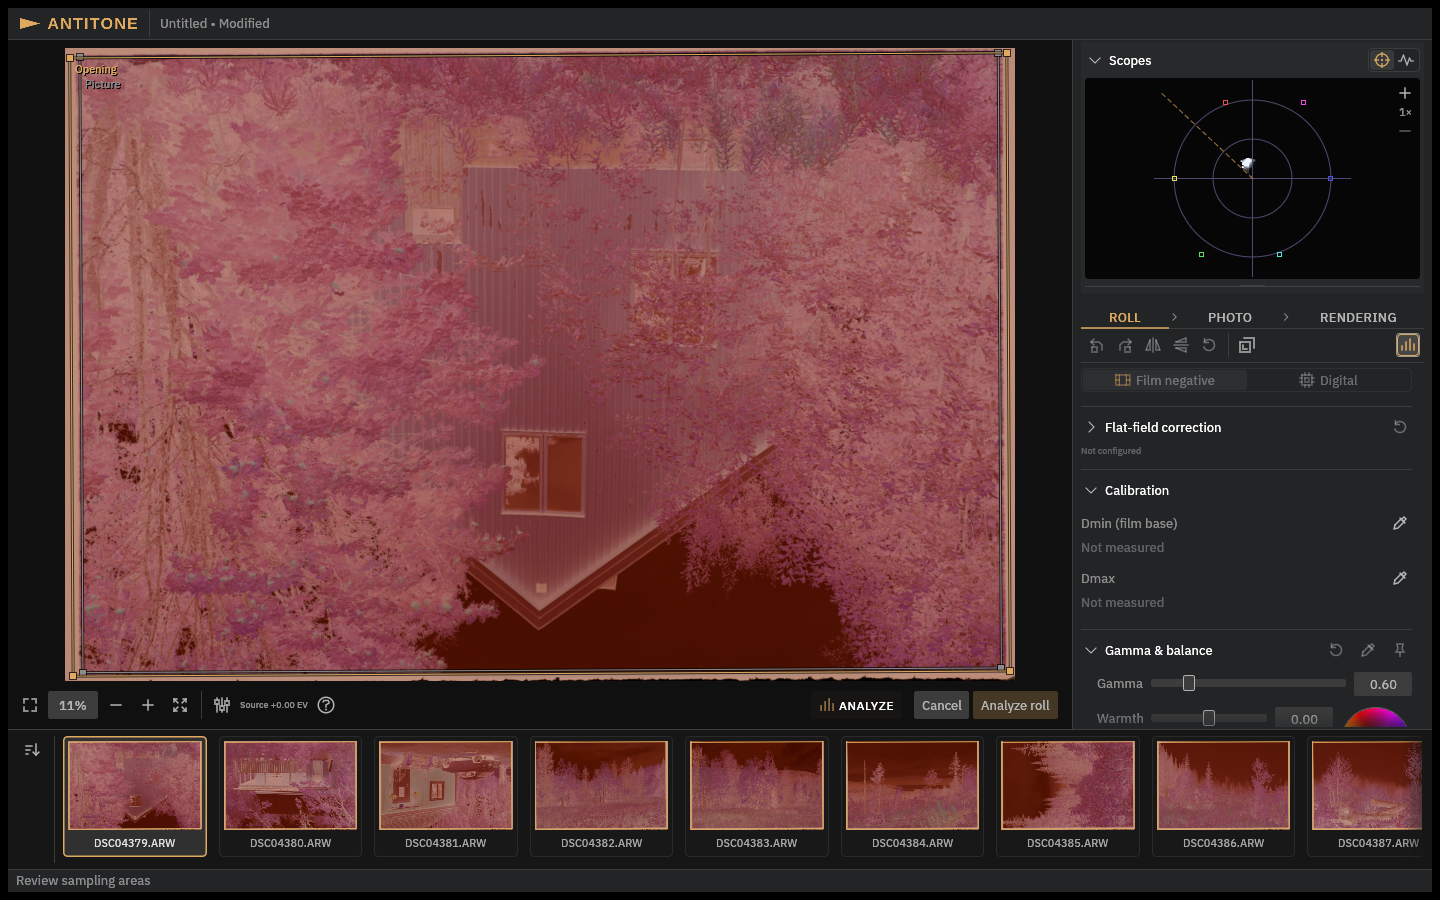
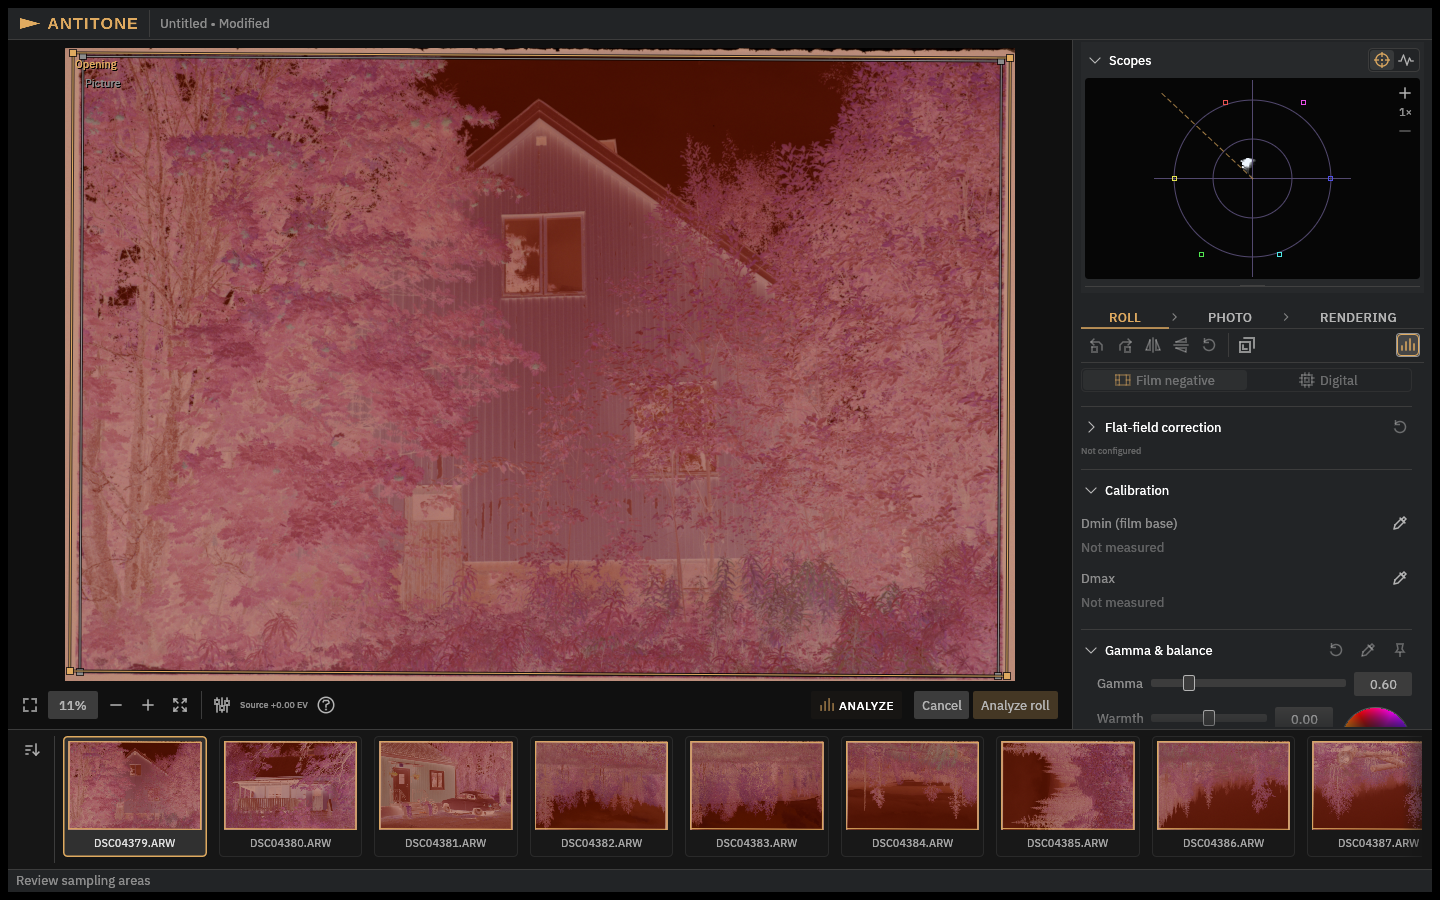
Honor photo orientation in Analyze review (#320)

Changed region(s): [[0.0312, 0.0311, 0.7188, 0.7778], [0.0312, 0.8089, 1.0, 0.9333], [0.3438, 0.3733, 0.375, 0.4356]]

diff --git a/src/editor/kittest_tests/analyze.rs b/src/editor/kittest_tests/analyze.rs
@@ -63,10 +63,11 @@ fn show_confirmation(harness: &mut Harness<'_, Editor>) {
             signature.composition,
             Composition::new(
                 editor.document.visit.canvas.ready.as_ref().unwrap().area,
-                Default::default(),
-                Default::default()
+                editor.document.project.orientation,
+                editor.photo_orientation(),
             )
-            .unwrap()
+            .unwrap(),
+            "sampling review uses the photo's orientation but not its crop"
         );
         let scopes::ScopeInput { view, .. } = editor.scope_request().unwrap();
         assert!(view.capture.is_inspection());
@@ -136,11 +137,8 @@ fn draw_picture(harness: &mut Harness<'_, Editor>, area: Rect) {
     harness.get_by_label("Fit").click();
     harness.step();
     let geometry = harness.read(|editor| editor.active_canvas().last_layout.unwrap().0);
-    let start = geometry.screen_point(egui::pos2(area.x as f32, area.y as f32));
-    let end = geometry.screen_point(egui::pos2(
-        (area.x + area.width) as f32,
-        (area.y + area.height) as f32,
-    ));
+    let target = geometry.screen_region(area);
+    let (start, end) = (target.min, target.max);
     let region = harness.read(|editor| editor.test_pick_region());
     if let Some(region) = region {
         let bounds = geometry.screen_coverage(region);
@@ -339,13 +337,14 @@ fn exercise_analyze(harness: &mut Harness<'_, Editor>, picture: Rect, case: &str
         assert_eq!(after.order, before.order);
         assert!(after.analysis_area.is_none());
         assert_eq!(after.analysis_regions.len(), after.order.len());
-        assert!(
-            after
-                .analysis_regions
-                .iter()
-                .all(|e| e.areas.picture
-                    == Some(Coverage::rectangle(picture).corners().map(|p| p.0)))
-        );
+        for entry in &after.analysis_regions {
+            let active = after.source(entry.source).unwrap().development.active_area;
+            let coverage = crate::scan_regions::Areas::coverage(entry.areas.picture.unwrap());
+            assert_eq!(
+                coverage.unwrap().exact_rectangle(active.into()),
+                Some(picture)
+            );
+        }
         assert_eq!(after.input.gamma(), before.input.gamma());
         assert_eq!(
             Editor::response_of(after.input),
@@ -533,12 +532,33 @@ fn roll_area_review_supports_normal_and_narrow_layouts_and_exception_browsing() 
             editor.add_raws(vec![fixture("roll-0.dng"), fixture("roll-1.dng")], cx)
         });
         wait_opened_photo(&mut harness);
-        harness.update(|editor| editor.photo_settings_mut().exposure = 1.25);
+        harness.update(|editor| {
+            editor.document.project.orientation.turn_clockwise();
+            editor.photo_orientation_mut().flips.horizontal = true;
+            editor.photo_settings_mut().exposure = 1.25;
+        });
 
         let before = harness.read(|editor| editor.document.state.project.clone());
         let first = harness.read(|editor| editor.document.visit.current_source);
         let scopes_visible = harness.read(|editor| editor.scopes.visible);
         show_confirmation(&mut harness);
+        let preview = harness
+            .update(|editor| editor.with_current_tool(|tool, editor| tool.roll_preview(editor)))
+            .unwrap();
+        assert_eq!(preview.images.compositions.len(), before.order.len());
+        for (id, composition) in &preview.images.compositions {
+            let source = before.source(*id).unwrap();
+            assert_eq!(
+                *composition,
+                Composition::new(
+                    source.development.active_area.into(),
+                    before.orientation,
+                    source.orientation,
+                )
+                .unwrap(),
+                "filmstrip review uses each photo's uncropped orientation"
+            );
+        }
         wait_for(&mut harness, |e| {
             e.document
                 .thumbnails

diff --git a/src/editor/analysis.rs b/src/editor/analysis.rs
@@ -373,12 +373,7 @@ impl tool::Tool for AnalyzeTool {
     }
     fn composition(&self, normal: Composition) -> Composition {
         if self.review.is_some() {
-            Composition::new(
-                normal.area(),
-                RollOrientation::default(),
-                PhotoOrientation::default(),
-            )
-            .expect("source composition")
+            normal.uncropped()
         } else {
             normal
         }
@@ -474,17 +469,12 @@ impl tool::Tool for AnalyzeTool {
             return preview;
         };
         for row in &review.approved.entries {
-            let Ok(source) = review.document.project.source(row.source) else {
+            let Ok(source) = editor.document.project.source(row.source) else {
                 continue;
             };
             preview.images.compositions.push((
                 row.source,
-                Composition::new(
-                    source.development.active_area.into(),
-                    RollOrientation::default(),
-                    PhotoOrientation::default(),
-                )
-                .expect("review source"),
+                self.composition(editor.source_composition(source)),
             ));
             preview.images.sources.push((
                 row.source,
@@ -657,7 +647,7 @@ pub(super) struct Review {
 }
 
 fn review_label(canvas: egui::Rect, q: [egui::Pos2; 4], picture: bool) -> egui::Rect {
-    let p = q[0] + egui::vec2(5., 4.);
+    let p = egui::Rect::from_points(&q).min + egui::vec2(5., 4.);
     let p = egui::pos2(
         p.x.clamp(
             canvas.left() + 4.,
@@ -826,7 +816,9 @@ impl AnalyzeTool {
         } else {
             entry.areas.opening
         };
-        if old == Some(region.corners().map(|point| point.0)) {
+        // The same footprint can start at a different source corner or reverse winding.
+        let corners = region.corners().map(|point| point.0);
+        if old.is_some_and(|old| corners.iter().all(|point| old.contains(point))) {
             return;
         }
         if review.picture {

diff --git a/src/editor/thumbnails/card.rs b/src/editor/thumbnails/card.rs
@@ -1,9 +1,10 @@
 use super::{NavigationImage, NavigationPhotograph, ui};
+use crate::geometry::SourcePoint;
 
 pub(in crate::editor) struct Card<'a> {
     pub image: NavigationImage<'a>,
     pub warning: Option<String>,
-    pub outline: Option<(&'a [[f64; 2]; 4], [u32; 4])>,
+    pub outline: Option<&'a [[f64; 2]; 4]>,
 }
 
 impl Card<'_> {
@@ -61,20 +62,19 @@ impl Card<'_> {
 
 fn draw_photo(
     photo: NavigationPhotograph<'_>,
-    outline: Option<(&[[f64; 2]; 4], [u32; 4])>,
+    outline: Option<&[[f64; 2]; 4]>,
     ui: &egui::Ui,
     image_rect: egui::Rect,
 ) -> Result<(), String> {
     let full = photo.fitted_rect(image_rect);
+    let composition = photo.composition;
     let result = photo.show(ui, full);
 
-    if let Some((outline, [x, y, width, height])) = outline {
+    if let Some(outline) = outline {
+        let [width, height] = composition.size().map(f64::from);
         let points = outline.map(|point| {
-            full.min
-                + egui::vec2(
-                    ((point[0] - f64::from(x)) / f64::from(width)) as f32 * full.width(),
-                    ((point[1] - f64::from(y)) / f64::from(height)) as f32 * full.height(),
-                )
+            let [x, y] = composition.source_to_frame(SourcePoint(point)).0;
+            full.min + egui::vec2((x / width) as f32, (y / height) as f32) * full.size()
         });
         ui.painter()
             .with_clip_rect(full.intersect(ui.clip_rect()))

diff --git a/src/editor/analysis/tests/review_tests.rs b/src/editor/analysis/tests/review_tests.rs
@@ -121,6 +121,18 @@ fn both_sampling_frames_select_directly_and_resize_without_changing_accepted_are
             );
             editor.select_review_area(geometry, point(picture, 0));
             assert!(editor.document.analysis_review().unwrap().picture);
+
+            let mut reversed = picture.corners();
+            reversed.reverse();
+            editor.set_test_pick_region(Some(Coverage::new(reversed).unwrap()));
+            assert_eq!(editor.test_pick_region(), Some(picture));
+            assert!(
+                !editor
+                    .review_areas(editor.document.visit.current_source.unwrap())
+                    .unwrap()
+                    .picture_edited
+            );
+
             let drag = PickDrag::begin(geometry, point(picture, 0), editor.test_pick_region());
             editor.set_test_pick_region(Some(
                 drag.update(geometry, point(picture, 0) + egui::vec2(5., 5.)),

diff --git a/src/editor/filmstrip.rs b/src/editor/filmstrip.rs
@@ -161,7 +161,7 @@ fn show_cards(
                             .outlines
                             .iter()
                             .find(|(source, _)| *source == id)
-                            .map(|(_, points)| (points, source.development.active_area)),
+                            .map(|(_, points)| points),
                     };
                     let name = path.file_name().unwrap_or_default().to_string_lossy();
                     let drag_preview = starts_drag

diff --git a/src/geometry.rs b/src/geometry.rs
@@ -438,6 +438,13 @@ impl Composition {
         Ok(Self { crop, ..self })
     }
 
+    pub fn uncropped(self) -> Self {
+        Self {
+            crop: Crop::from_region(self.area()),
+            ..self
+        }
+    }
+
     pub fn is_exact(self) -> bool {
         self.crop.angle == 0.
     }

diff --git a/docs/roll-analysis.md b/docs/roll-analysis.md
@@ -21,7 +21,7 @@ Film and picture statistics select bounded two-dimensional strata on this source
 
 Spatial support excludes the holder and unsuitable material. Statistical anchors and median exposure statistics limit the influence of isolated extremes.
 
-**Analyze** on the Roll tool shelf requests reusable [shared film/picture metadata and automatic sampling windows](spatial-metadata.md), then opens one review for the roll. Either Analyze or Auto-crop can prepare the shared description without accepting the other's edits. The viewer shows the uncropped source with both opening and picture areas — direct canvas selection, corner resizing and dragging; automatic film exclusions stay visible, and warning icons identify missing areas and the consequence of replacing existing Photo adjustments. Browsing, selection and reordering remain available during review. Reviewed areas follow source IDs, so reordering neither retargets the areas nor changes which photos Analyze fits. Browse to edit individual exceptions, then confirm the complete set with **Analyze roll**; Cancel leaves accepted areas and grading unchanged. Finishing or cancelling keeps the currently displayed photo.
+**Analyze** on the Roll tool shelf requests reusable [shared film/picture metadata and automatic sampling windows](spatial-metadata.md), then opens one review for the roll. Either Analyze or Auto-crop can prepare the shared description without accepting the other's edits. The viewer shows the full source in its Roll and Photo orientation, with both opening and picture areas — direct canvas selection, corner resizing and dragging; automatic film exclusions stay visible, and warning icons identify missing areas and the consequence of replacing existing Photo adjustments. Browsing, selection and reordering remain available during review. Reviewed areas follow source IDs, so reordering neither retargets the areas nor changes which photos Analyze fits. Browse to edit individual exceptions, then confirm the complete set with **Analyze roll**; Cancel leaves accepted areas and grading unchanged. Finishing or cancelling keeps the currently displayed photo.
 
 The suggestions assume photographs from one actual roll/stock and a consistent scanning setup. Compatible captures strengthen one conservative holder interior — recurring edge-connected darkness supplies pooled exterior evidence, and an inscribed rectangle avoids rounded corners and terminal intrusions rather than merely intersecting four fitted rails. Opposing measured rails can support a translated photo exception; substantial inward departures stay local, and uncorroborated evidence can abstain and leave coverage bounds for review. Picture evidence remains independent inside that opening: own-source transitions, recurring material appearance and peer layout suggest frame edges and holder/gap exclusions, but weak transitions can supply statistical support without certifying a physical frame or crop. These estimate safe statistical support, not an exact physical aperture or every pixel's material identity.
 
